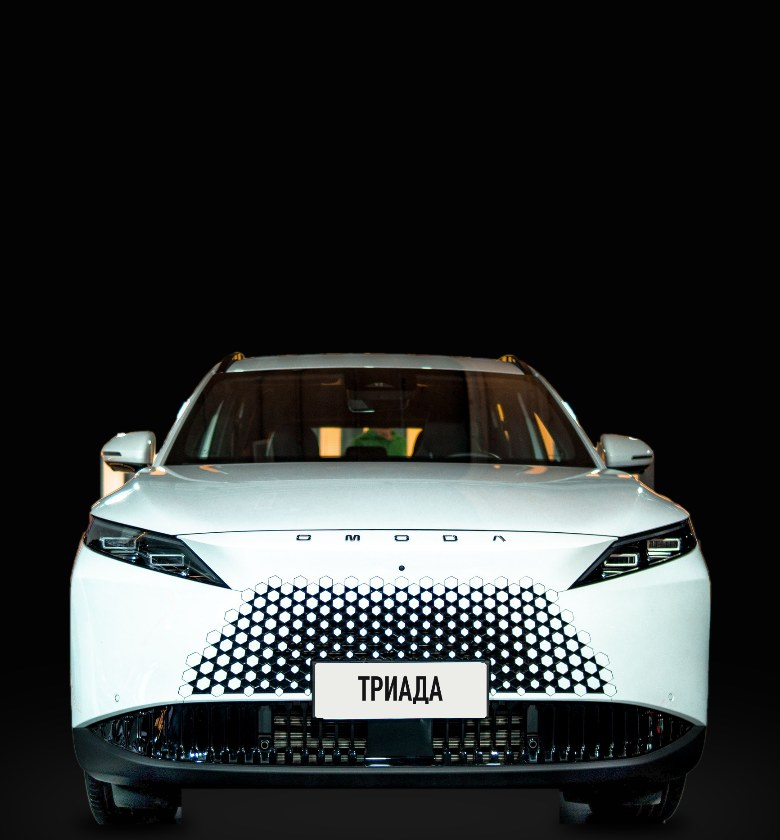
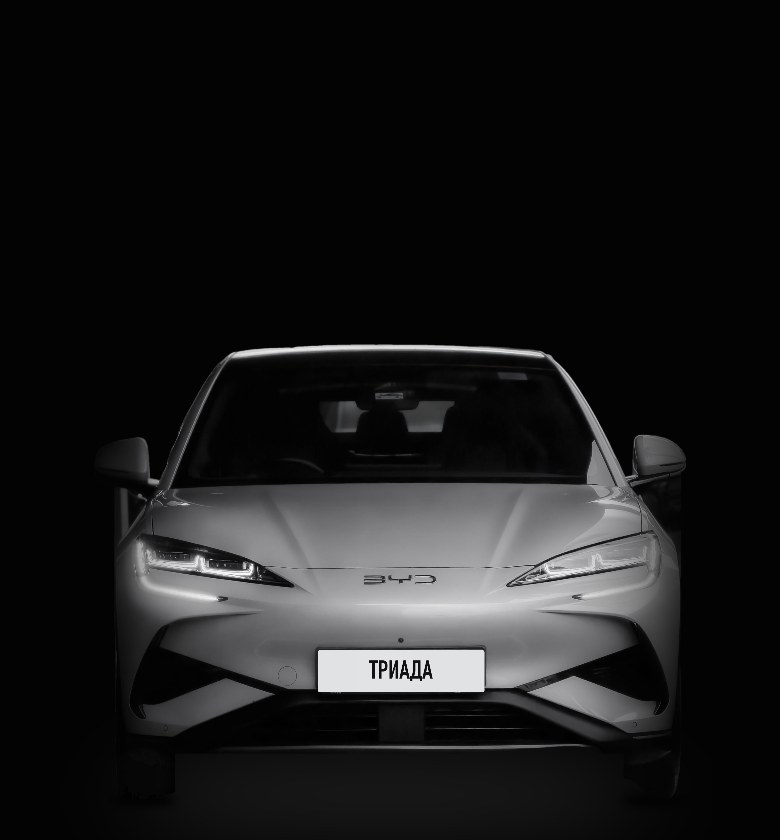
Автозапуск: BYD Sealion 7 вместо Omoda; пример машины в подборе — Haval F7x

diff --git a/index.html b/index.html
@@ -62,7 +62,7 @@
     <picture><source media="(max-width:760px)" srcset="%M%hero/start-m-bg.jpg"><img class="scene__bg" src="%M%hero/start-d-bg.jpg" alt="" fetchpriority="high"></picture>
     <div class="scene__shade"></div>
     <p class="word" id="heroWord" aria-hidden="true"><span>Автозапуск</span></p>
-    <div class="scene__car"><picture><source media="(max-width:760px)" srcset="%M%hero/start-m-car.webp"><img src="%M%hero/start-d-car.webp" alt="Белый Omoda 7 анфас, ходовые огни горят"></picture></div>
+    <div class="scene__car"><picture><source media="(max-width:760px)" srcset="%M%hero/start-m-car.webp"><img src="%M%hero/start-d-car.webp" alt="BYD Sealion 7 анфас, ходовые огни горят"></picture></div>
     <i class="spot" id="spot" aria-hidden="true"></i>
     <svg class="lead" aria-hidden="true"><line id="leadLine"/></svg>
     <div class="tag" id="tag" aria-hidden="true"><p class="tag__h"><span class="tag__i" id="tagI"></span><span id="tagA">StarLine</span><time id="tagT">7:40</time></p><b id="tagB">Двигатель запущен</b><small id="tagS">Прогрев 10 минут, в салоне +20°</small></div>
@@ -117,7 +117,7 @@
         <label class="ch"><input type="radio" name="gps" value="0" checked><span data-i="off">Не нужно</span></label>
         <label class="ch"><input type="radio" name="gps" value="1"><span data-i="gps">Нужно</span></label></div></fieldset>
       <fieldset class="step-f"><legend class="step__h"><em>03</em>Машина</legend>
-        <div class="field"><input id="calcCar" name="car" placeholder="Марка и модель, например BMW X5" autocomplete="off" aria-label="Марка и модель"></div>
+        <div class="field"><input id="calcCar" name="car" placeholder="Марка и модель, например Haval F7x" autocomplete="off" aria-label="Марка и модель"></div>
         <div class="choice yr" data-yr>
           <label class="ch"><input type="radio" name="yr" value="до 2010"><span>до 2010</span></label>
           <label class="ch"><input type="radio" name="yr" value="2010–2020"><span>2010–2020</span></label>

diff --git a/src/site.config.ts b/src/site.config.ts
@@ -59,8 +59,8 @@ export const TABS: Record<Tab, TabData> = {
     sub: 'Заводите машину с телефона или брелока. Устанавливаем StarLine, Pandora и Призрак за день',
     price: 'Автозапуск с установкой <b>от 18 000 ₽</b>', cta: 'Подобрать автозапуск',
     app: 'StarLine', time: '7:40', tagB: 'Двигатель запущен', tagS: 'Прогрев 10 минут, в салоне +20°', icon: 'power',
-    alt: 'Белый Omoda 7 анфас, ходовые огни горят',
-    d: { spot: [1257, 496], tag: [1146, 598] }, m: { spot: [321, 276], tag: [150, 338] },
+    alt: 'BYD Sealion 7 анфас, ходовые огни горят',
+    d: { spot: [1232, 518], tag: [1146, 610] }, m: { spot: [305, 280], tag: [150, 330] },
   },
   signal: {
     label: 'Сигнализации', word: 'Сигнализации', line: 'Пусть угонщик ищет попроще',
